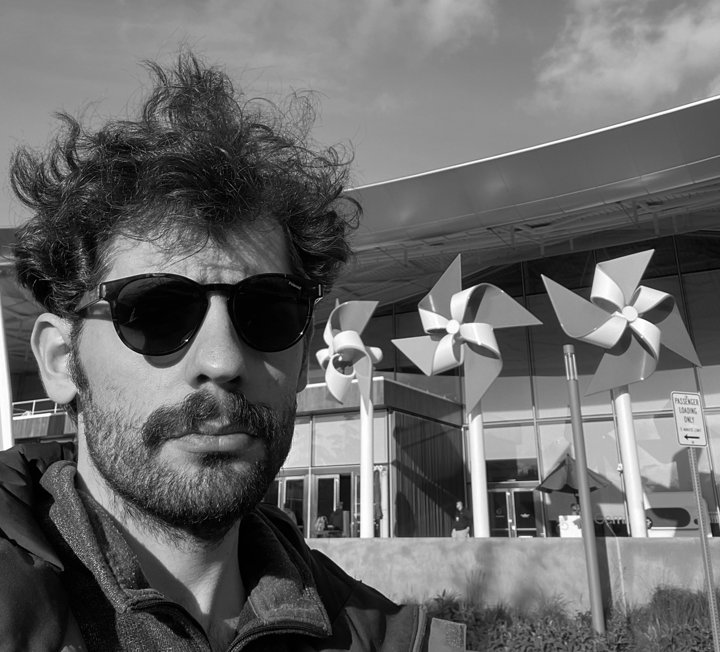
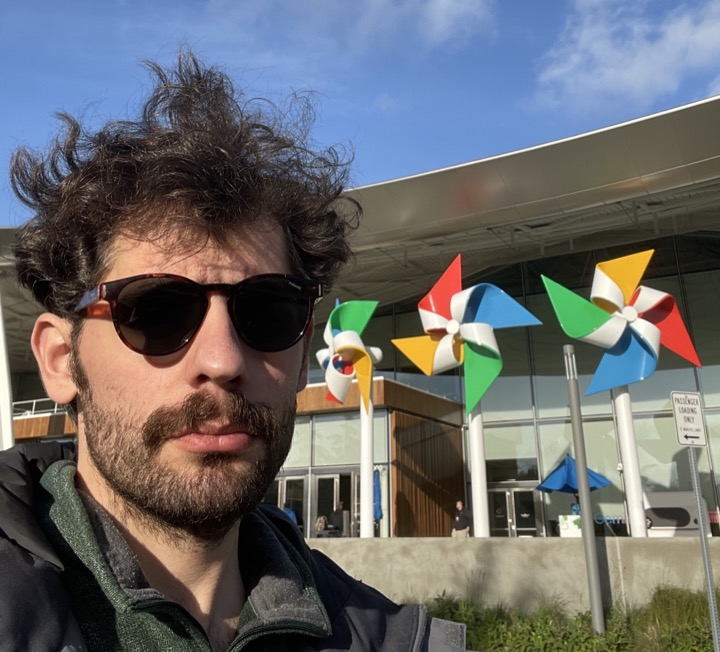
Restore web CV and update manuscript details
- Point the cv navigation item back to cv.html; add a "cv (pdf)" link
  inside the web CV; "my cv" on publications links to cv.html
- Restore the original colour profile photo
- List Süleyman Kıroğlu as author of "Economic Connectedness and
  Premature Adult Mortality Across U.S. Areas" (publications, web CV,
  cv.tex, cv.pdf)
- Remove SQL from the research methods paragraph

diff --git a/cv.html b/cv.html
@@ -33,7 +33,7 @@
         <li><a href="research.html">research</a></li>
         <li><a href="publications.html">publications</a></li>
         <li><a href="teaching.html">teaching</a></li>
-        <li><a href="cv.pdf">cv</a></li>
+        <li><a href="cv.html" aria-current="page">cv</a></li>
       </ul>
     </nav>
   </div>
@@ -50,7 +50,7 @@
         <a href="https://www.linkedin.com/in/suleymankiroglu/">linkedin</a> &middot;
         <a href="https://github.com/skiroglu">github</a> &middot;
         <a href="https://orcid.org/0000-0001-6714-0305">orcid</a> &middot;
-        <a href="cv.pdf">pdf</a>
+        <a href="cv.pdf">cv&nbsp;(pdf)</a>
       </p>
     </div>
   </header>
@@ -139,7 +139,7 @@
       <ul class="cites">
         <li>Masters, Ryan K., and <span class="me">S&uuml;leyman K&#x131;ro&#x11F;lu</span>. &ldquo;The Effects of Immigration and Domestic Migration on U.S. State Life Expectancy Trends.&rdquo; Manuscript in preparation.</li>
         <li>Masters, Ryan K., <span class="me">S&uuml;leyman K&#x131;ro&#x11F;lu</span>, Iliya Gutin, Lucy Merrill, Rick Rogers, and Bob Hummer. &ldquo;Early-life Mortality and the Widening U.S.-Peer Longevity Gap.&rdquo; Manuscript in preparation.</li>
-        <li>&ldquo;Economic Connectedness and Premature Adult Mortality Across U.S. Areas.&rdquo; Manuscript in preparation.</li>
+        <li><span class="me">K&#x131;ro&#x11F;lu, S&uuml;leyman</span>. &ldquo;Economic Connectedness and Premature Adult Mortality Across U.S. Areas.&rdquo; Manuscript in preparation.</li>
       </ul>
       <h3>Published</h3>
       <ul class="cites">

diff --git a/research.html b/research.html
@@ -33,7 +33,7 @@
         <li><a href="research.html" aria-current="page">research</a></li>
         <li><a href="publications.html">publications</a></li>
         <li><a href="teaching.html">teaching</a></li>
-        <li><a href="cv.pdf">cv</a></li>
+        <li><a href="cv.html">cv</a></li>
       </ul>
     </nav>
   </div>
@@ -88,7 +88,7 @@
   <section class="section" aria-labelledby="training">
     <h2 id="training">methods and training</h2>
     <div class="section-body">
-      <p>My work draws on demographic data, quantitative and computational methods, and sociological theory. Selected coursework includes natural language processing, machine learning and spatial data, big data architecture, and data visualization. Tools I use include Python, SQL, Stata, and ArcGIS. Alongside the PhD in Sociology, I am pursuing an M.S. in Computer Science at CU Boulder.</p>
+      <p>My work draws on demographic data, quantitative and computational methods, and sociological theory. Selected coursework includes natural language processing, machine learning and spatial data, big data architecture, and data visualization. Tools I use include Python, Stata, and ArcGIS. Alongside the PhD in Sociology, I am pursuing an M.S. in Computer Science at CU Boulder.</p>
       <p class="more"><a href="publications.html">Publications, manuscripts, and presentations &rarr;</a></p>
     </div>
   </section>

diff --git a/publications.html b/publications.html
@@ -33,7 +33,7 @@
         <li><a href="research.html">research</a></li>
         <li><a href="publications.html" aria-current="page">publications</a></li>
         <li><a href="teaching.html">teaching</a></li>
-        <li><a href="cv.pdf">cv</a></li>
+        <li><a href="cv.html">cv</a></li>
       </ul>
     </nav>
   </div>
@@ -44,7 +44,7 @@
   <header class="page-head">
     <h1>publications</h1>
     <div class="lede">
-      <p>Peer-reviewed articles, manuscripts under review or in preparation, and conference presentations. A full record is in my <a href="cv.pdf">cv</a>.</p>
+      <p>Peer-reviewed articles, manuscripts under review or in preparation, and conference presentations. A full record is in my <a href="cv.html">cv</a>.</p>
     </div>
   </header>
 
@@ -89,6 +89,7 @@
         </li>
         <li class="pub">
           <p class="pub-title">Economic Connectedness and Premature Adult Mortality Across U.S. Areas</p>
+          <p class="pub-authors"><span class="me">S&uuml;leyman K&#x131;ro&#x11F;lu</span></p>
           <p class="status">Manuscript in preparation</p>
         </li>
       </ul>

diff --git a/teaching.html b/teaching.html
@@ -33,7 +33,7 @@
         <li><a href="research.html">research</a></li>
         <li><a href="publications.html">publications</a></li>
         <li><a href="teaching.html" aria-current="page">teaching</a></li>
-        <li><a href="cv.pdf">cv</a></li>
+        <li><a href="cv.html">cv</a></li>
       </ul>
     </nav>
   </div>

diff --git a/contact.html b/contact.html
@@ -33,7 +33,7 @@
         <li><a href="research.html">research</a></li>
         <li><a href="publications.html">publications</a></li>
         <li><a href="teaching.html">teaching</a></li>
-        <li><a href="cv.pdf">cv</a></li>
+        <li><a href="cv.html">cv</a></li>
       </ul>
     </nav>
   </div>

diff --git a/index.html b/index.html
@@ -33,7 +33,7 @@
         <li><a href="research.html">research</a></li>
         <li><a href="publications.html">publications</a></li>
         <li><a href="teaching.html">teaching</a></li>
-        <li><a href="cv.pdf">cv</a></li>
+        <li><a href="cv.html">cv</a></li>
       </ul>
     </nav>
   </div>

diff --git a/cv.tex b/cv.tex
@@ -125,7 +125,8 @@ Department of Sociology, University of Colorado Boulder\par
   \item Masters, Ryan K., \me{Süleyman Kıroğlu}, Iliya Gutin, Lucy Merrill, Rick Rogers,
     and Bob Hummer. ``Early-life Mortality and the Widening U.S.-Peer Longevity Gap.''
     Manuscript in preparation.
-  \item ``Economic Connectedness and Premature Adult Mortality Across U.S. Areas.''
+  \item \me{Kıroğlu, Süleyman}. ``Economic Connectedness and Premature Adult Mortality
+    Across U.S. Areas.''
     Manuscript in preparation.
 \end{cites}
 
